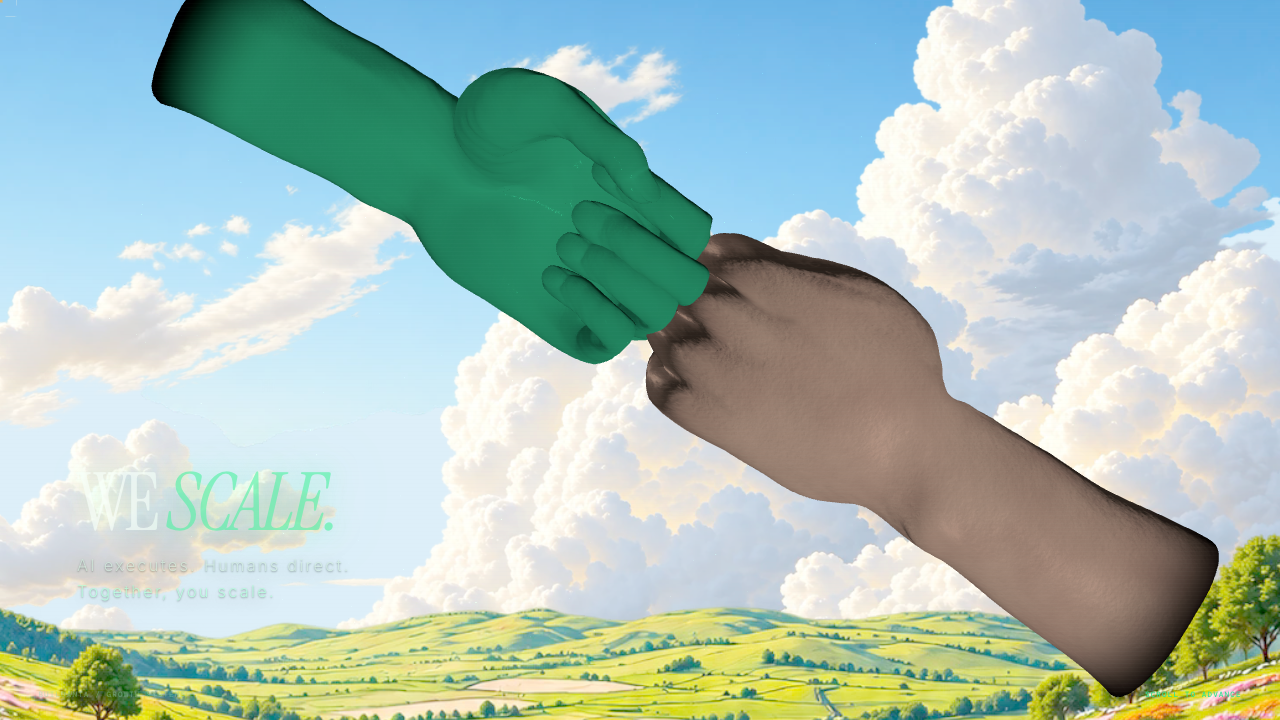
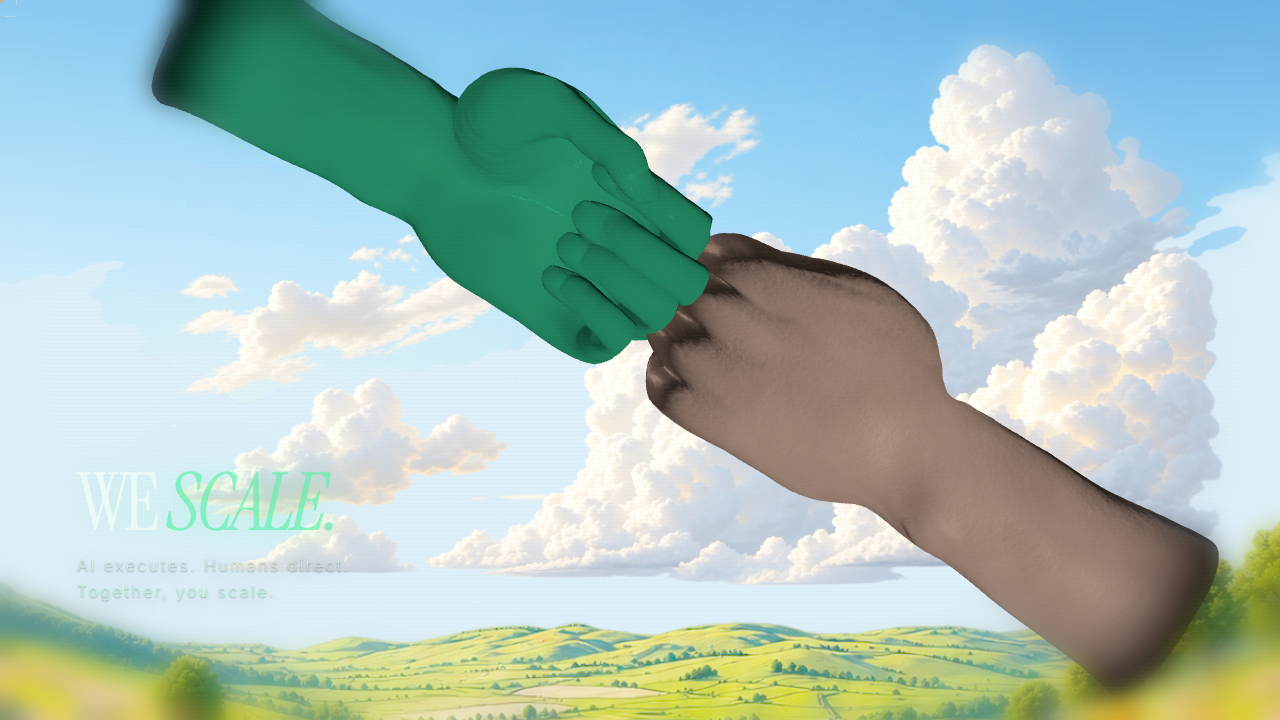
meadow beat: zoomed-out composition + four-edge backdrop blur frame (--meet-bg gated), title above blur

diff --git a/src/gl/consultMeet.js b/src/gl/consultMeet.js
@@ -147,9 +147,9 @@ export function createConsultMeet(scene, _opts = {}) {
   const horizonPlane = new Mesh(new PlaneGeometry(40, 23), horizonMat);
   horizonPlane.position.set(0, 0, -18);
   bgGroup.add(horizonPlane);
-  const skyPlane = mkLayer(SKY_URL, 34, 19.1, 0, 1.2, -16, 0);       // fills frame
-  const cloudsPlane = mkLayer(CLOUDS_URL, 26, 14.6, 0.5, 0.6, -10, 0); // fills the sky's cutout band
-  const landPlane = mkLayer(LAND_URL, 25, 18.75, 0, -3.4, -5, 0);    // meadow fills lower frame edge-to-edge
+  const skyPlane = mkLayer(SKY_URL, 34, 19.1, 0, 2.2, -16, 0);       // fills frame, gradient higher
+  const cloudsPlane = mkLayer(CLOUDS_URL, 19, 10.7, 2.0, 0.9, -10, 0); // zoomed out, mass centre-right like the reference
+  const landPlane = mkLayer(LAND_URL, 22, 16.5, 0, -3.6, -5, 0);   // meadow ~ bottom third, like the reference
 
   const rigGroup = new Group();
   rigGroup.scale.setScalar(SCALE);
@@ -539,15 +539,16 @@ export function createConsultMeet(scene, _opts = {}) {
     /* parallax: far layers barely move, near meadow moves the most */
     const bgOn = on * smooth((p - 0.06) / 0.06);
     horizonMat.opacity = bgOn;
+    document.documentElement.style.setProperty("--meet-bg", bgOn.toFixed(3));
     skyPlane.material.opacity = bgOn;
     cloudsPlane.material.opacity = bgOn;
     landPlane.material.opacity = bgOn;
     skyPlane.position.x = 0 + px * 0.25 - t * 0.4;
-    skyPlane.position.y = 1.2 + py * 0.15;
-    cloudsPlane.position.x = 0.5 + px * 0.7 - t * 1.6;
-    cloudsPlane.position.y = 0.6 + py * 0.35;
-    landPlane.position.x = 0 + px * 1.5 - t * 2.2;
-    landPlane.position.y = -3.4 + py * 0.7 + t * 0.6;
+    skyPlane.position.y = 2.2 + py * 0.15;
+    cloudsPlane.position.x = 2.0 + px * 0.7 - t * 1.2;
+    cloudsPlane.position.y = 0.9 + py * 0.35;
+    landPlane.position.x = 0 + px * 1.2 - t * 1.5;
+    landPlane.position.y = -3.6 + py * 0.7 + t * 0.5;
     rigGroup.rotation.y = Math.sin(t * Math.PI) * 0.02 + px * 0.020;
     rigGroup.rotation.x = -py * 0.014;
     rigGroup.position.x = CENTER_LIFT.x + Math.sin(t * Math.PI * 0.8) * 0.30;

diff --git a/src/styles/main.css b/src/styles/main.css
@@ -5767,6 +5767,7 @@ canvas.market-camera3d {
   letter-spacing: 0.01em;
 }
 .consult-meet__title {
+  z-index: 6;
   /* CLOSEUP composition (1 Sep): at frame-filling scale the arms run
      upper-left -> centre -> lower-right, so a centred title sits ON the green
      forearm. The lower-left quadrant is the one area both arms leave empty. */
@@ -5806,4 +5807,20 @@ canvas.market-camera3d {
 .consult-meet__title p em {
   font-style: normal;
   color: #a9ffd3;
+}
+
+
+/* ── meadow beat: soft blur frame on all four screen edges ──
+   backdrop-filter blurs the canvas behind it; the mask keeps the centre
+   sharp. Opacity rides --meet-bg, written per frame by consultMeet. */
+.consult-meet__edgeblur {
+  position: absolute;
+  inset: 0;
+  pointer-events: none;
+  z-index: 2;
+  backdrop-filter: blur(12px);
+  -webkit-backdrop-filter: blur(12px);
+  mask-image: radial-gradient(ellipse 74% 70% at 50% 50%, transparent 56%, black 84%);
+  -webkit-mask-image: radial-gradient(ellipse 74% 70% at 50% 50%, transparent 56%, black 84%);
+  opacity: var(--meet-bg, 0);
 }

diff --git a/index.html b/index.html
@@ -280,6 +280,7 @@
         </div>
         <!-- the payoff title — set in the act's own serif voice (see the
              .consult-meet__title styles), landing only at the spark -->
+        <div class="consult-meet__edgeblur" aria-hidden="true"></div>
         <div class="consult-meet__title">
           <strong>WE <em>SCALE.</em></strong>
           <p>AI executes. Humans direct.<br><em>Together, you scale.</em></p>
